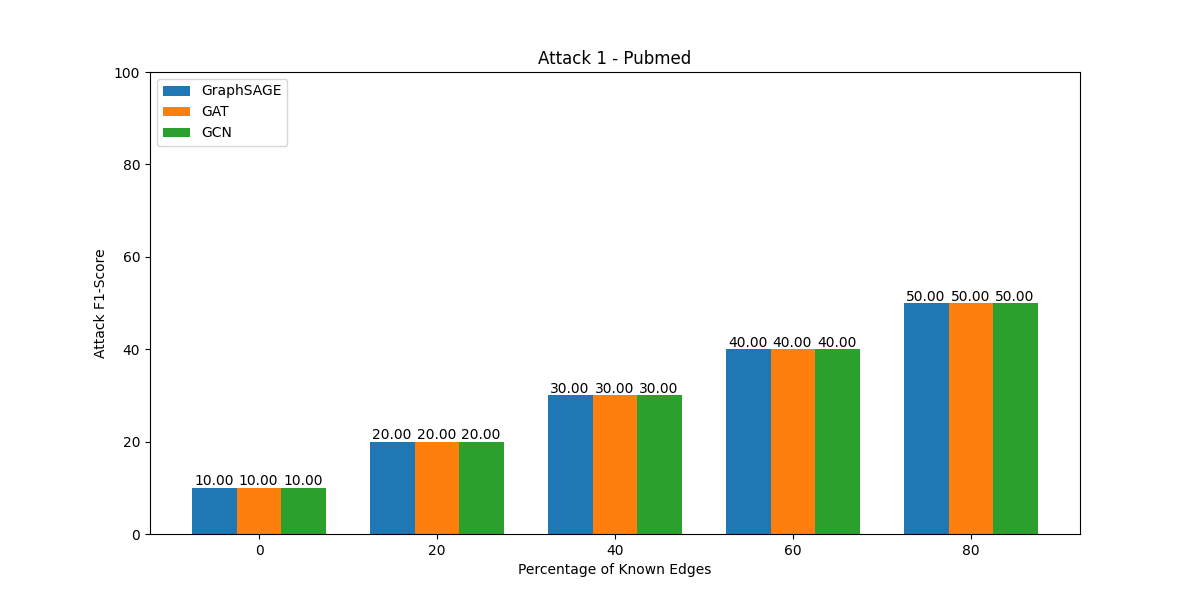
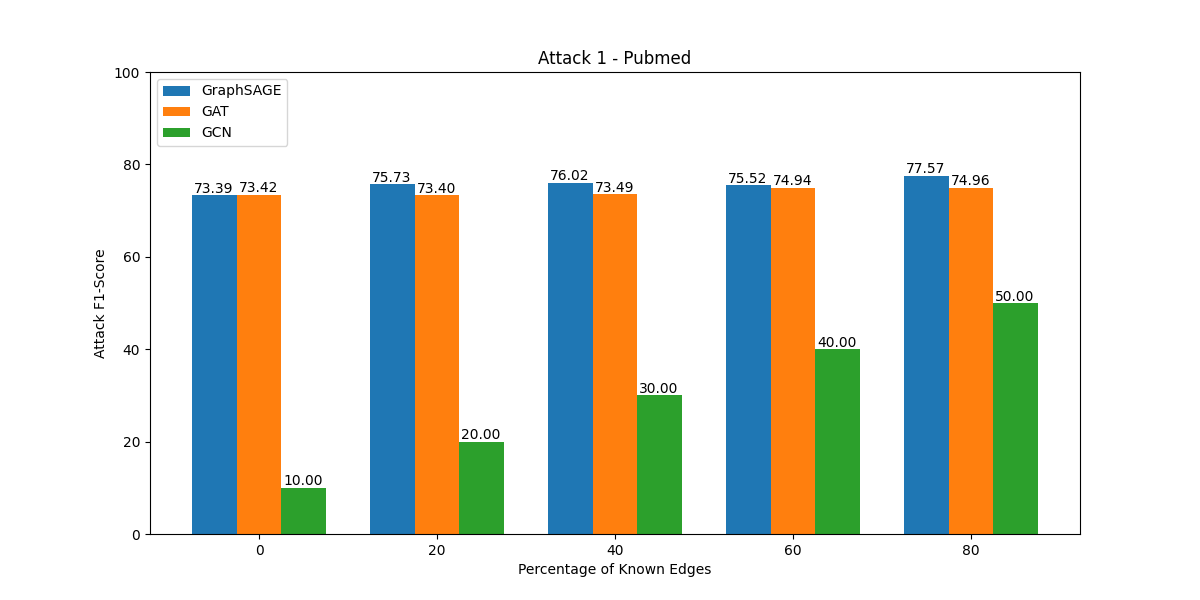
gat pubmed

diff --git a/Experiment/results/plot.py b/Experiment/results/plot.py
@@ -78,8 +78,8 @@ def a1_pubmed():
 
     bartypes = ['0', '20', '40', '60', '80']
 
-    graphsage = [10, 20, 30, 40, 50]
-    gat = [10, 20, 30, 40, 50]
+    graphsage = [73.39, 75.73, 76.02, 75.52, 77.57]
+    gat = [73.42, 73.40, 73.49, 74.94, 74.96]
     gcn = [10, 20, 30, 40, 50]
 
     X_axis = np.arange(len(bartypes))
@@ -190,8 +190,8 @@ def a2_pubmed():
 
     bartypes = ['0', '20', '40', '60', '80']
 
-    graphsage = [10, 20, 30, 40, 50]
-    gat = [10, 20, 30, 40, 50]
+    graphsage = [75.47, 79.37, 80.98, 81.72, 83.21]
+    gat = [77.30, 79.63, 80.35, 82.73, 82.37]
     gcn = [10, 20, 30, 40, 50]
 
     X_axis = np.arange(len(bartypes))
